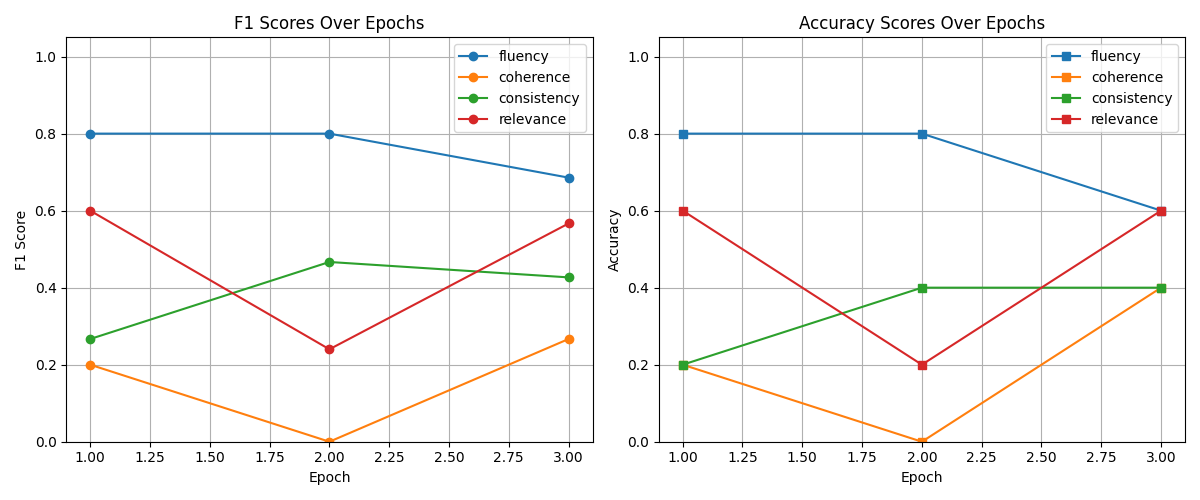
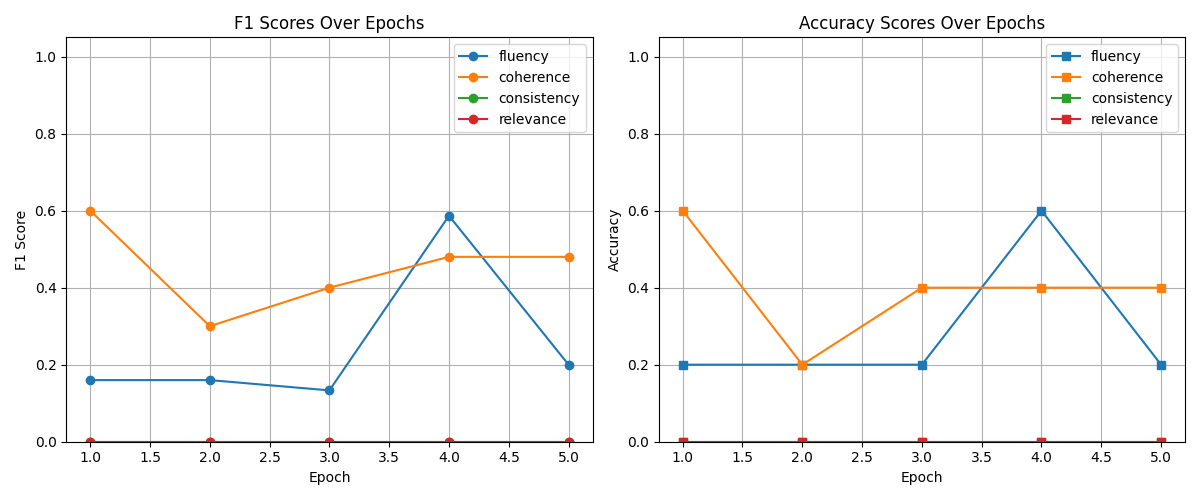
Minor Fixes

diff --git a/src/run.py b/src/run.py
@@ -3,7 +3,7 @@ from src.opro import run_opro
 
 if __name__ == '__main__':
   # Fixed Parameters
-  filepath = "Dataset/dataset/summary_pairs.csv"
+  filepath = "Dataset/dataset/df_model_M11.csv"
   eval_llm_name = "deepseek/deepseek-r1-0528:free"
   optim_llm_name = "mistralai/mistral-small-3.2-24b-instruct:free"
   k = 5
